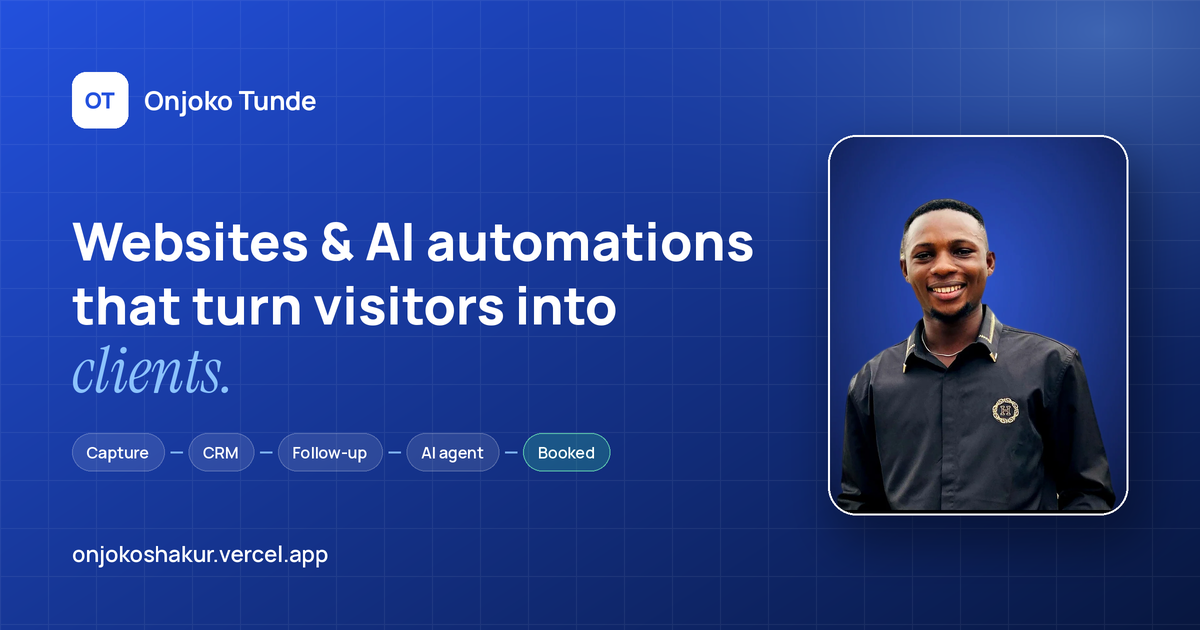
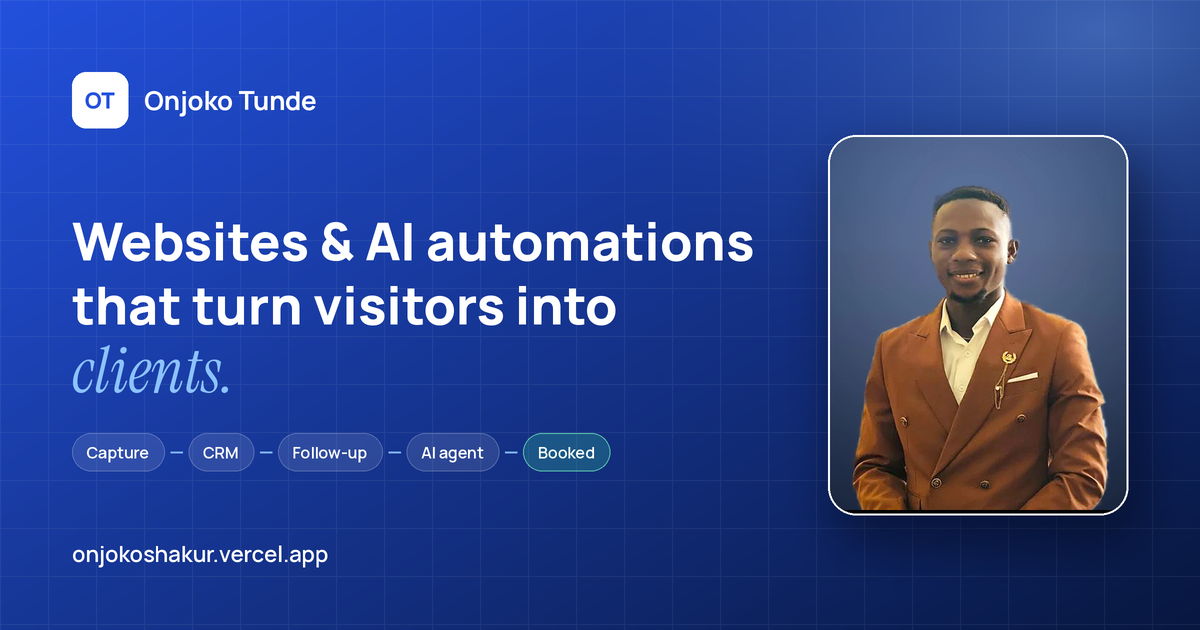
Portrait: switch to the brown-suit navy headshot
New photo on About and the homepage About card (4:5 crop, WebP), and
the social share image rebuilt with it.

Claude-Session: https://claude.ai/code/session_01My3W3UWvS4QiEyVJXcMkLN

Changed region(s): [[0.6783, 0.2111, 0.9558, 0.8143]]

diff --git a/src/lib/projects.ts b/src/lib/projects.ts
@@ -518,4 +518,4 @@ export const responseNote =
   "I usually reply within one business day. Based in Nigeria (GMT+1), working with clients in the US, UK, Canada and Australia.";
 
 /** Portrait photo URL. Leave empty to hide the photo block until you add one. */
-export const portrait = "/about/onjoko-tunde-portrait-navy.webp";
+export const portrait = "/about/onjoko-tunde-portrait-suit.webp";
